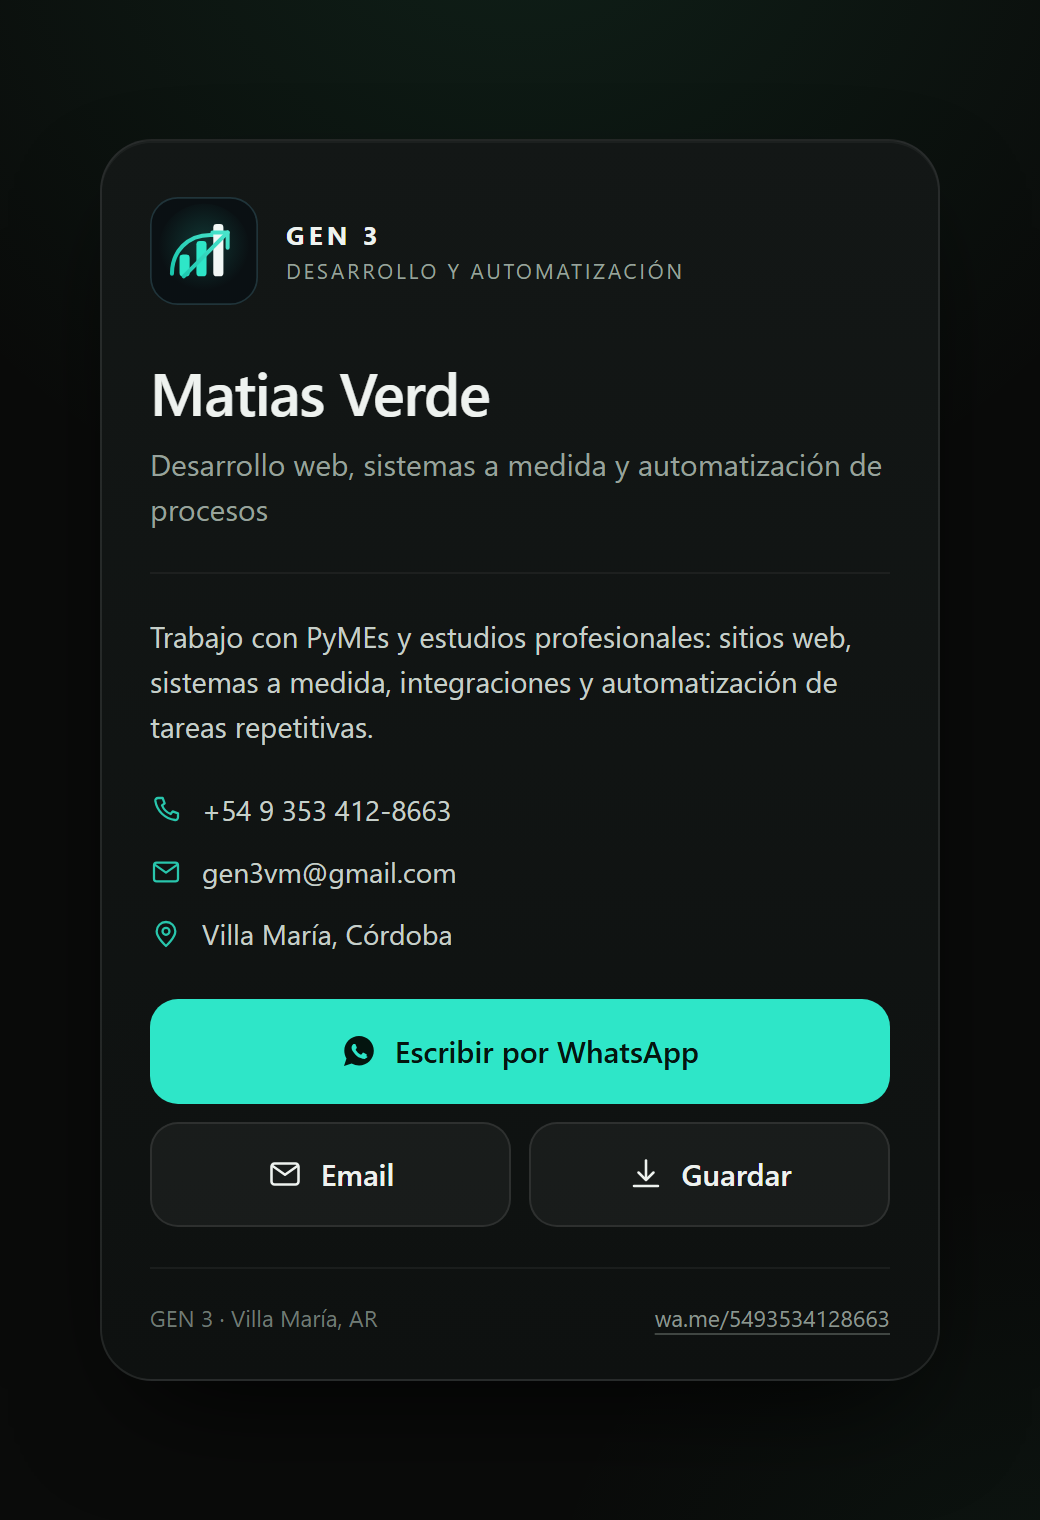
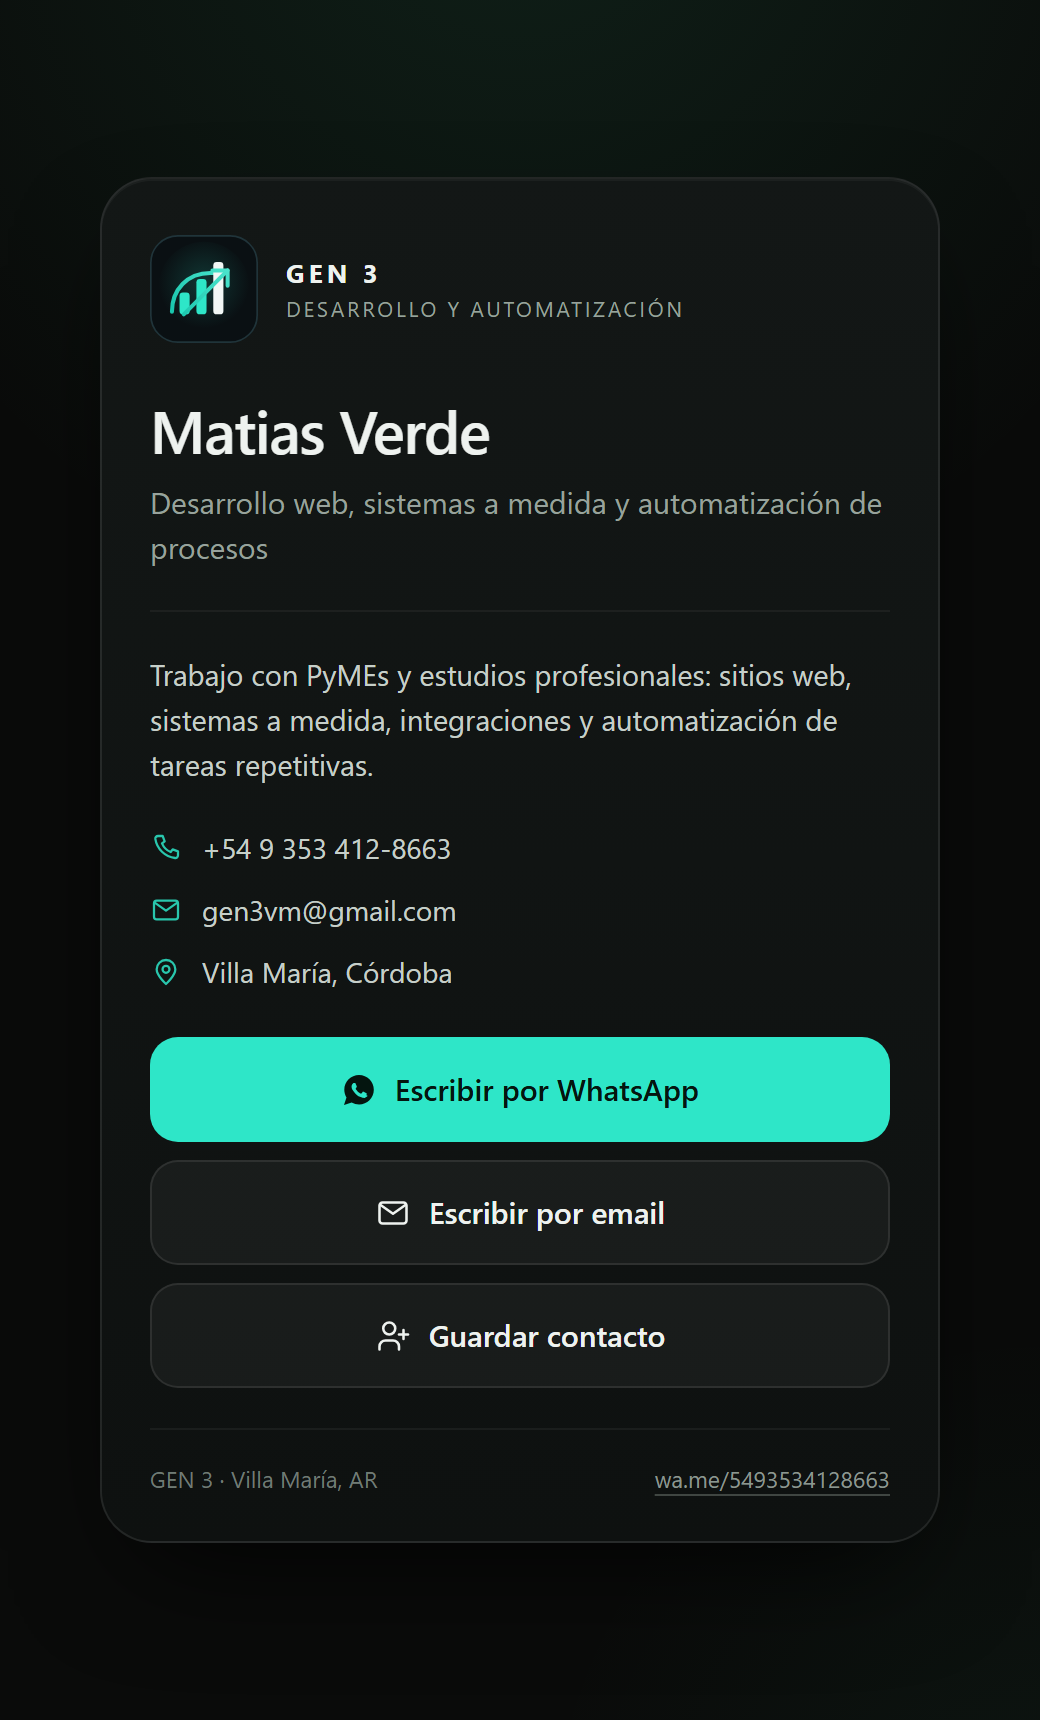
Boton de contacto mas claro, mensaje de WhatsApp y vista previa horizontal

diff --git a/preview.html b/preview.html
@@ -1,0 +1,113 @@
+<!DOCTYPE html>
+<html lang="es-AR">
+<head>
+<meta charset="utf-8">
+<title>Vista previa — Matias Verde</title>
+<style>
+  @page{margin:0}
+  html,body{margin:0;padding:0}
+  body{
+    width:1200px;height:630px;
+    overflow:hidden;
+    background:
+      radial-gradient(70% 90% at 15% 0%, rgba(46,230,200,.13), transparent 60%),
+      radial-gradient(60% 80% at 100% 100%, rgba(46,230,200,.07), transparent 55%),
+      #0a0b0a;
+    color:#eef2ef;
+    font-family:-apple-system,BlinkMacSystemFont,"Segoe UI",Inter,Roboto,"Helvetica Neue",Arial,sans-serif;
+    display:flex;
+    flex-direction:column;
+    justify-content:space-between;
+    padding:64px 72px;
+    box-sizing:border-box;
+    -webkit-font-smoothing:antialiased;
+  }
+
+  .top{display:flex;align-items:center;gap:18px}
+  .top svg{width:58px;height:58px;display:block}
+  .top .t{line-height:1.15}
+  .top strong{display:block;font-size:17px;font-weight:650;letter-spacing:.18em}
+  .top span{display:block;font-size:12px;letter-spacing:.14em;text-transform:uppercase;color:#98a29c;margin-top:5px}
+
+  h1{
+    margin:0;
+    font-size:76px;
+    line-height:1.02;
+    letter-spacing:-.035em;
+    font-weight:640;
+  }
+
+  .role{
+    margin:20px 0 0;
+    font-size:26px;
+    line-height:1.35;
+    color:#b9c3bd;
+    max-width:820px;
+  }
+
+  .bottom{
+    display:flex;
+    align-items:flex-end;
+    justify-content:space-between;
+    gap:40px;
+    border-top:1px solid rgba(255,255,255,.10);
+    padding-top:26px;
+  }
+
+  .contact{display:flex;gap:34px;font-size:21px;color:#d5dcd8}
+  .contact span{display:flex;align-items:center;gap:10px}
+  .contact svg{width:20px;height:20px;color:#2ee6c8;flex:0 0 auto}
+
+  .url{font-size:16px;color:#6f7a74;letter-spacing:.02em}
+</style>
+</head>
+<body>
+
+  <div class="top">
+    <svg xmlns="http://www.w3.org/2000/svg" viewBox="0 0 64 64" aria-hidden="true">
+      <defs>
+        <linearGradient id="p-t" x1="8" y1="52" x2="56" y2="8" gradientUnits="userSpaceOnUse">
+          <stop offset="0" stop-color="#0FBFA6"/>
+          <stop offset="1" stop-color="#5DF0D8"/>
+        </linearGradient>
+        <radialGradient id="p-glow" cx="50%" cy="45%" r="50%">
+          <stop offset="0" stop-color="#2EE6C8" stop-opacity=".18"/>
+          <stop offset="1" stop-color="#2EE6C8" stop-opacity="0"/>
+        </radialGradient>
+      </defs>
+      <rect x=".5" y=".5" width="63" height="63" rx="16" fill="#0A1013" stroke="#20343A"/>
+      <circle cx="32" cy="31" r="27" fill="url(#p-glow)"/>
+      <path d="M13 45.5c0-13.2 9.2-23 22.8-23h3.2" fill="none" stroke="url(#p-t)" stroke-width="2.4" stroke-linecap="round"/>
+      <rect x="17.5" y="34" width="6" height="13" rx="2" fill="#2EE6C8"/>
+      <rect x="27.5" y="26" width="6" height="21" rx="2" fill="#2EE6C8"/>
+      <rect x="37.5" y="16" width="6" height="31" rx="2" fill="#F1F7F5"/>
+      <path d="M20 47 46 21" fill="none" stroke="url(#p-t)" stroke-width="2.4" stroke-linecap="round"/>
+      <path d="M37 21h9v9" fill="none" stroke="url(#p-t)" stroke-width="2.4" stroke-linecap="round" stroke-linejoin="round"/>
+    </svg>
+    <div class="t">
+      <strong>GEN 3</strong>
+      <span>Desarrollo y automatización</span>
+    </div>
+  </div>
+
+  <div>
+    <h1>Matias Verde</h1>
+    <p class="role">Desarrollo web, sistemas a medida y automatización de procesos</p>
+  </div>
+
+  <div class="bottom">
+    <div class="contact">
+      <span>
+        <svg viewBox="0 0 24 24" fill="none" stroke="currentColor" stroke-width="1.8" stroke-linecap="round" stroke-linejoin="round"><path d="M6.5 3h3l1.5 4-2 1.5a12 12 0 0 0 6.5 6.5L17 13l4 1.5v3a2 2 0 0 1-2.2 2A17 17 0 0 1 4 5.2 2 2 0 0 1 6 3z"/></svg>
+        +54 9 353 412-8663
+      </span>
+      <span>
+        <svg viewBox="0 0 24 24" fill="none" stroke="currentColor" stroke-width="1.8" stroke-linecap="round" stroke-linejoin="round"><rect x="3" y="5" width="18" height="14" rx="2"/><path d="m3.5 6.5 8.5 6 8.5-6"/></svg>
+        gen3vm@gmail.com
+      </span>
+    </div>
+    <div class="url">mativ93.github.io/tarjeta</div>
+  </div>
+
+</body>
+</html>

diff --git a/index.html b/index.html
@@ -12,9 +12,9 @@
 <meta property="og:description" content="Sitios web, sistemas a medida, integraciones y automatización de procesos. GEN 3 · Villa María, Córdoba.">
 <meta property="og:locale" content="es_AR">
 <meta property="og:url" content="https://mativ93.github.io/tarjeta/">
-<meta property="og:image" content="https://mativ93.github.io/tarjeta/tarjeta.png">
-<meta property="og:image:width" content="1040">
-<meta property="og:image:height" content="1520">
+<meta property="og:image" content="https://mativ93.github.io/tarjeta/preview.jpg">
+<meta property="og:image:width" content="1200">
+<meta property="og:image:height" content="630">
 <meta property="og:image:alt" content="Tarjeta de Matias Verde — GEN 3">
 <meta name="twitter:card" content="summary_large_image">
 
@@ -185,12 +185,6 @@
     color:var(--text);
   }
 
-  .btn-grid{
-    display:grid;
-    grid-template-columns:1fr 1fr;
-    gap:9px;
-  }
-
   /* Pie */
   .foot{
     margin-top:20px;
@@ -234,7 +228,6 @@
   .toast.show{opacity:1;transform:translate(-50%,0)}
 
   @media (max-width:380px){
-    .btn-grid{grid-template-columns:1fr}
     .card{padding:24px 18px 18px}
   }
 
@@ -312,31 +305,30 @@
   </div>
 
   <div class="actions">
-    <a class="btn btn-primary" href="https://wa.me/5493534128663?text=Hola%20Matias%2C%20te%20escribo%20por%20la%20tarjeta" target="_blank" rel="noopener">
+    <a class="btn btn-primary" href="https://wa.me/5493534128663?text=Hola%20Matias%2C%20te%20escribo%20por%20la%20tarjeta%20que%20me%20compartiste.%20Quer%C3%ADa%20consultarte%20por%20un%20proyecto." target="_blank" rel="noopener">
       <svg viewBox="0 0 24 24" fill="currentColor" aria-hidden="true">
         <path d="M12.04 2C6.6 2 2.2 6.4 2.2 11.84c0 1.9.53 3.68 1.46 5.2L2 22l5.1-1.6a9.8 9.8 0 0 0 4.94 1.33c5.43 0 9.84-4.4 9.84-9.84C21.88 6.4 17.47 2 12.04 2Zm5.7 13.9c-.24.68-1.4 1.3-1.94 1.35-.5.05-.96.23-3.2-.7-2.68-1.1-4.36-3.9-4.5-4.08-.13-.19-1.06-1.42-1.06-2.7 0-1.28.67-1.9.9-2.17.24-.26.52-.33.7-.33h.5c.16 0 .38-.06.58.44.2.5.7 1.72.76 1.85.06.13.1.28.01.45-.09.18-.36.55-.53.75-.17.2-.28.3-.13.55.15.25.66 1.1 1.42 1.78.97.87 1.6 1.1 1.85 1.22.25.13.4.11.55-.06.15-.18.63-.74.8-1 .17-.25.33-.2.55-.12.22.08 1.42.67 1.66.79.25.12.4.19.46.29.06.1.06.6-.18 1.28Z"/>
       </svg>
       Escribir por WhatsApp
     </a>
 
-    <div class="btn-grid">
-      <a class="btn btn-ghost" href="mailto:gen3vm@gmail.com?subject=Consulta%20desde%20la%20tarjeta">
-        <svg viewBox="0 0 24 24" fill="none" stroke="currentColor" stroke-width="1.7" stroke-linecap="round" stroke-linejoin="round" aria-hidden="true">
-          <rect x="3" y="5" width="18" height="14" rx="2"/>
-          <path d="m3.5 6.5 8.5 6 8.5-6"/>
-        </svg>
-        Email
-      </a>
+    <a class="btn btn-ghost" href="mailto:gen3vm@gmail.com?subject=Consulta%20desde%20la%20tarjeta">
+      <svg viewBox="0 0 24 24" fill="none" stroke="currentColor" stroke-width="1.7" stroke-linecap="round" stroke-linejoin="round" aria-hidden="true">
+        <rect x="3" y="5" width="18" height="14" rx="2"/>
+        <path d="m3.5 6.5 8.5 6 8.5-6"/>
+      </svg>
+      Escribir por email
+    </a>
 
-      <a class="btn btn-ghost" href="matias-verde.vcf" download="Matias Verde.vcf">
-        <svg viewBox="0 0 24 24" fill="none" stroke="currentColor" stroke-width="1.7" stroke-linecap="round" stroke-linejoin="round" aria-hidden="true">
-          <path d="M12 3v12"/>
-          <path d="m7 11 5 5 5-5"/>
-          <path d="M4 20h16"/>
-        </svg>
-        Guardar
-      </a>
-    </div>
+    <a class="btn btn-ghost" href="matias-verde.vcf" download="Matias Verde.vcf">
+      <svg viewBox="0 0 24 24" fill="none" stroke="currentColor" stroke-width="1.7" stroke-linecap="round" stroke-linejoin="round" aria-hidden="true">
+        <path d="M16 21v-2a4 4 0 0 0-4-4H7a4 4 0 0 0-4 4v2"/>
+        <circle cx="9.5" cy="7" r="4"/>
+        <path d="M19 8v6"/>
+        <path d="M22 11h-6"/>
+      </svg>
+      Guardar contacto
+    </a>
   </div>
 
   <div class="foot">

diff --git a/README.md b/README.md
@@ -4,48 +4,40 @@
 
 | Archivo | Qué es |
 |---|---|
-| `index.html` | La tarjeta como página web (con botones que funcionan) |
-| `tarjeta.png` | La tarjeta como imagen (1040 × 1520) |
+| `index.html` | La tarjeta como página web (botones que funcionan) |
+| `tarjeta.png` | La tarjeta como imagen vertical (1040 × 1720), para mandar como foto |
+| `preview.jpg` | Imagen horizontal (1200 × 630) que usa WhatsApp en la vista previa del link |
+| `preview.html` | Fuente de `preview.jpg`. No se comparte |
 | `matias-verde.vcf` | Contacto para guardar en la agenda del teléfono |
 | `README.md` | Este archivo |
 
+Publicada en: `https://mativ93.github.io/tarjeta/`
+
 ---
 
-## Tres formas de compartirla
+## La diferencia importante
 
-### 1. Como link (la buena)
+- **Link** → WhatsApp lo muestra como una tarjeta con imagen, título y descripción.
+  **Toda la tarjeta es tocable**: al tocarla se abre la página con los botones activos.
+- **Imagen (`tarjeta.png`)** → se ve como foto. No se puede tocar.
 
-La tarjeta es una página, no una foto: para compartirla hay que publicarla y mandar la URL.
+Para que aparezca la tarjeta tocable: pegar el link, no la foto.
 
-1. Crear un repo público en GitHub, por ejemplo `tarjeta`.
-2. Subir el contenido de esta carpeta a la raíz.
-3. Settings → Pages → Source: *Deploy from a branch* → Branch `main`, carpeta `/ (root)`.
-4. Queda en `https://mativ93.github.io/tarjeta/`.
+---
 
-Ese link se pega en WhatsApp y la otra persona abre la tarjeta con los botones activos
-(WhatsApp, email, guardar contacto).
+## Cómo se comparte
 
-Para que el link muestre miniatura en WhatsApp: subir una imagen 1200×630 como `preview.jpg`
-y descomentar la etiqueta `og:image` en el `<head>`, con la URL absoluta.
+**Link.** Pegar `https://mativ93.github.io/tarjeta/` en el chat. WhatsApp lo convierte
+en la vista previa con `preview.jpg`, y al tocarla se abre la página.
 
-### 2. Como imagen
+**Foto.** Adjuntar `tarjeta.png` (clip → Fotos). Sirve para mostrarla sin abrir nada.
+No es tocable; conviene mandarla junto con el link.
 
-Adjuntar `tarjeta.png` en el chat (clip → Fotos). Se ve al instante, sin abrir nada,
-pero no es clickeable. Conviene mandarla junto con el link.
+**Contacto.** Adjuntar `matias-verde.vcf` (clip → Documento). Aparece "Agregar contacto"
+y queda en la agenda con teléfono, mail y empresa.
 
-Se puede regenerar con Chrome:
-
-```
-chrome --headless=new --force-device-scale-factor=2 --window-size=520,760 ^
-  --screenshot="tarjeta.png" "index.html?img"
-```
-
-(En el modo `?img` se oculta el botón "Copiar enlace" y se muestra el número de WhatsApp.)
-
-### 3. Como contacto
-
-Adjuntar `matias-verde.vcf` (clip → Documento). A la otra persona le aparece
-"Agregar contacto" y queda en su agenda sin escribir nada.
+> Si WhatsApp muestra una versión vieja de la vista previa, está usando caché.
+> Agregar `?v=2` al final del link para forzarla.
 
 ---
 
@@ -54,6 +46,21 @@ Adjuntar `matias-verde.vcf` (clip → Documento). A la otra persona le aparece
 - Nombre, rol y descripción: dentro de `<main class="card">`.
 - Teléfono: en tres lugares — link `tel:`, texto visible y link `wa.me`.
   Formato internacional: `+54 9 353 412-8663` / `5493534128663`.
-- Ubicación: fila con el ícono de pin (Villa María, Córdoba).
+- Mensaje precargado de WhatsApp: parámetro `text=` del link `wa.me`.
+- Ubicación: fila con el ícono de pin.
 - Color de acento: variable `--accent` en el `<style>`.
-- Si cambia el teléfono o el email, actualizar también `matias-verde.vcf` y regenerar `tarjeta.png`.
+
+Después de cambiar teléfono, email o textos hay que regenerar `tarjeta.png` y `preview.jpg`,
+y actualizar `matias-verde.vcf`.
+
+## Regenerar las imágenes
+
+```
+chrome --headless=new --force-device-scale-factor=2 --window-size=520,860 ^
+  --screenshot="tarjeta.png" "index.html?img"
+
+chrome --headless=new --window-size=1200,630 ^
+  --screenshot="preview.png" "preview.html"
+```
+
+`preview.png` se convierte a JPG (calidad 88) antes de subirlo como `preview.jpg`.
